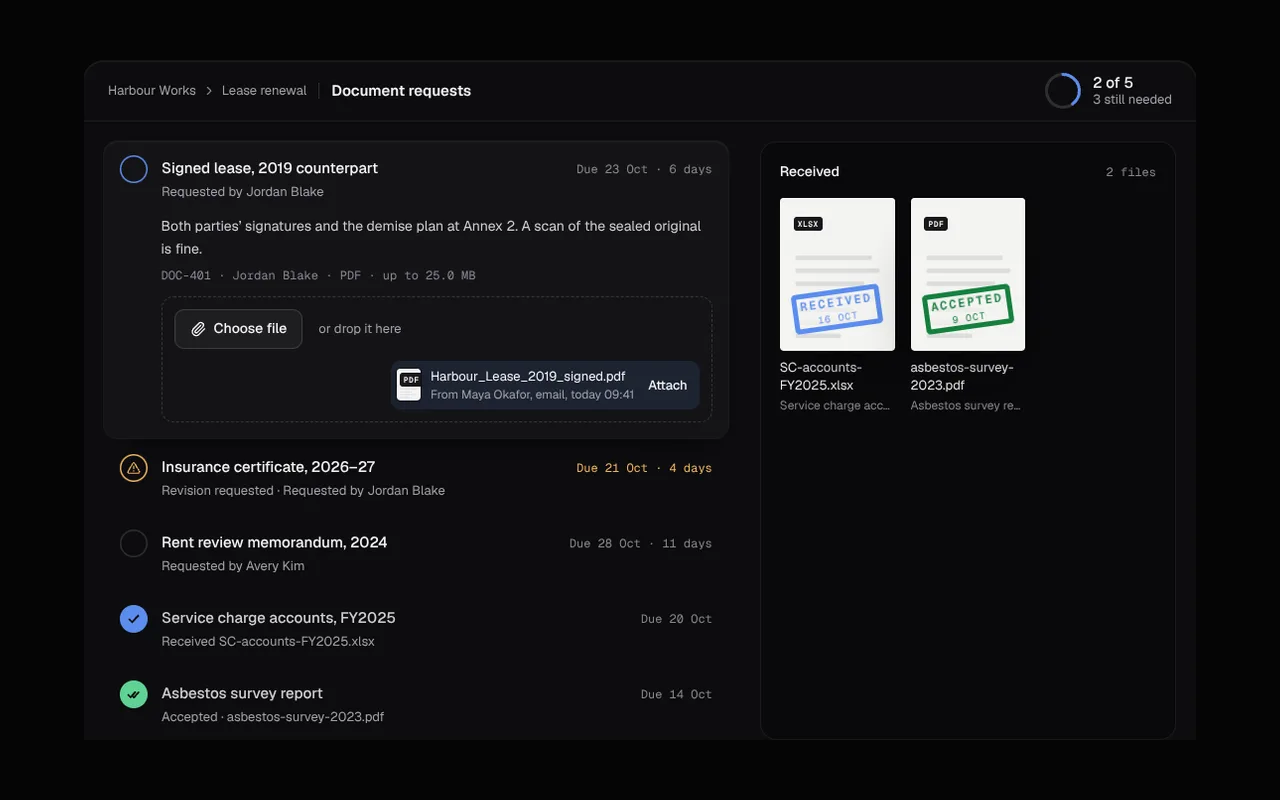
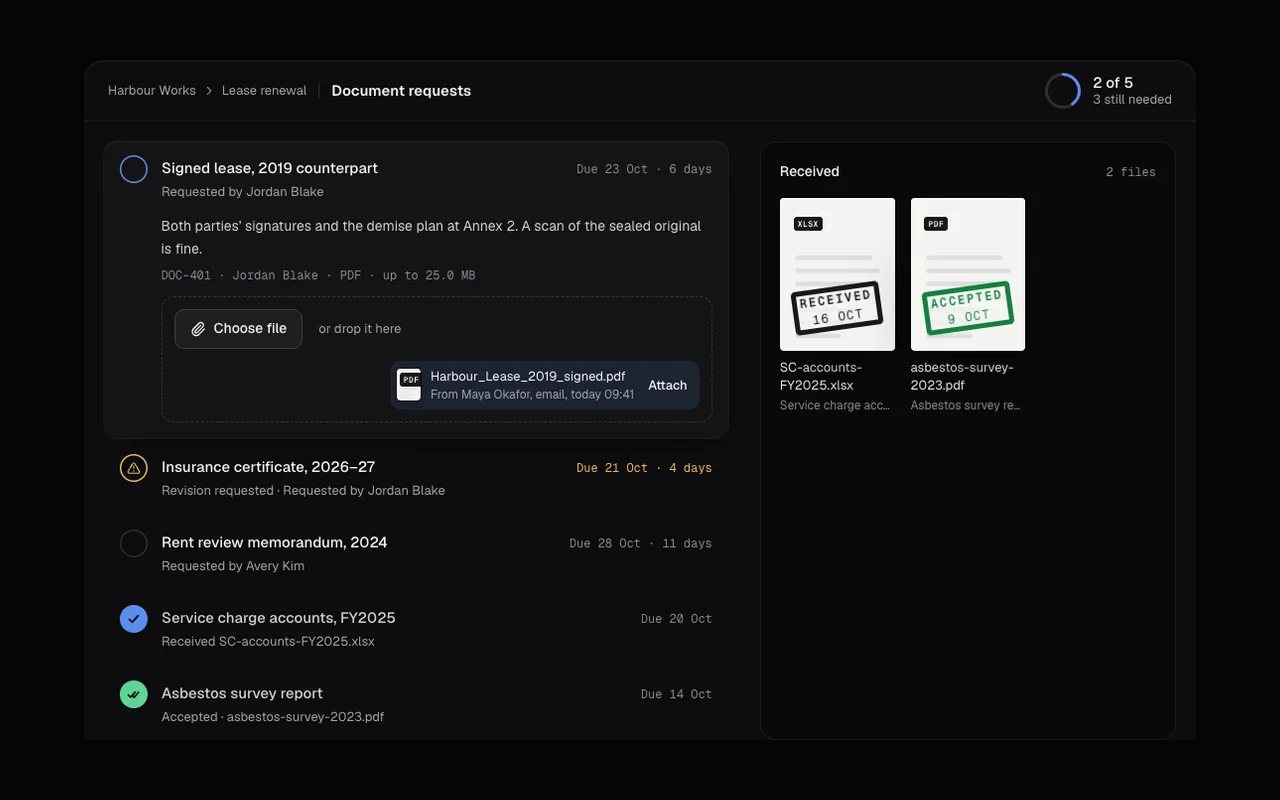
Verify legal writer availability, phone files and receipt contrast

Changed region(s): [[0.5938, 0.3438, 0.6875, 0.4375], [0.7188, 0.3438, 0.7812, 0.4375]]

diff --git a/docs/review/HANDOFF_TASKS.md b/docs/review/HANDOFF_TASKS.md
@@ -425,6 +425,8 @@ from changing subsequent block tests. Original failures and diagnostics remain l
 
 - Legal review dependency follow-up: document countdowns now receive the same host reference date as the matter overview and obligation timeline. The original case displayed one day when the host date required eight. A registered date regression, both-theme source accessibility checks and reviewed captures, the complete Next Legal workflow, strict registry, root/all-eleven-block types and all 1,066 unit tests pass. The full Legal block review remains in progress.
 
+- Legal review dependency follow-up: missing completion/upload writers now leave their actions unavailable while preserving evidence and staged files. Connecting a writer retains the draft and hands off the original matter/request context. Paper stamps use readable state ink and 12px dates; completed clauses reserve the stamp margin, short staged filenames retain one line and all-received feedback meets contrast. Original missing-writer, contrast, overlap and six-line filename failures are retained. Four native source mounts, eight state accessibility audits and reviewed captures, the complete Next Legal workspace and both standalone tool workflows, Document Requests controls/refreshed poster, strict registry, root/all-eleven-block types and all 1,066 tests pass. Void/Promise contracts are unchanged. Both existing films remain queued; the full Legal block review remains in progress.
+
 ## 1. Re-record demo videos (120 components)
 
 Every rebuilt component's poster is current but its catalogue film (`public/previews/<slug>.mp4`) still shows the old
